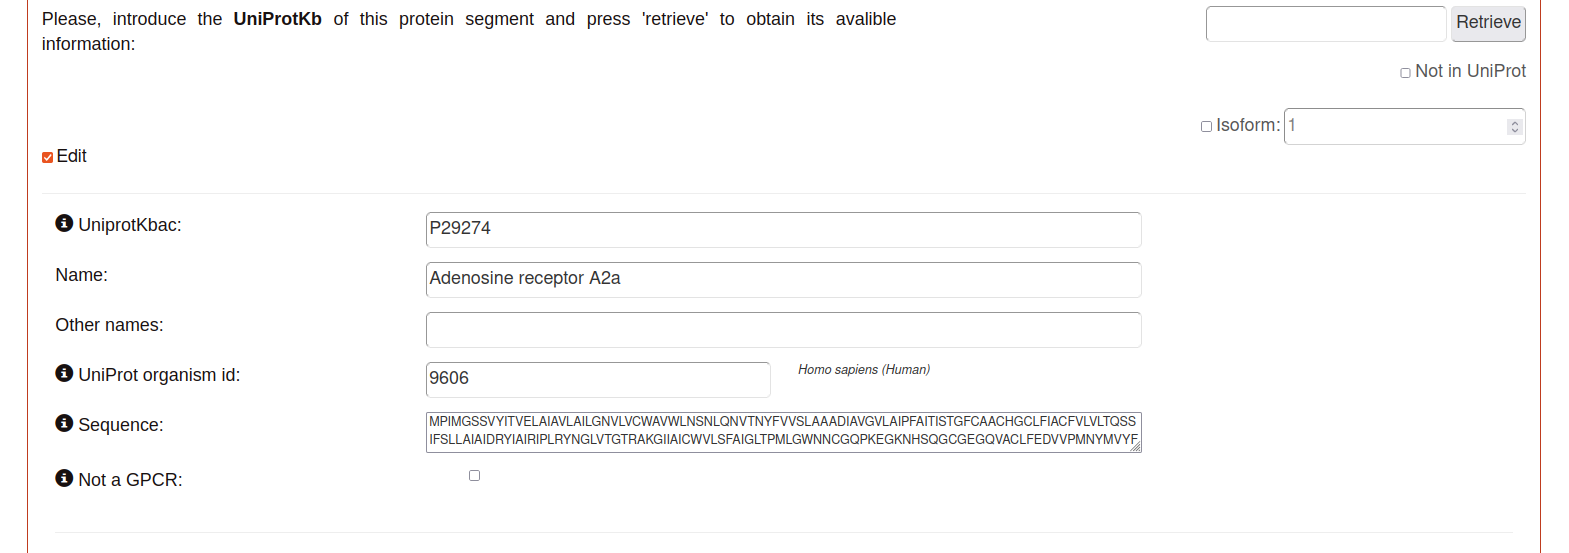
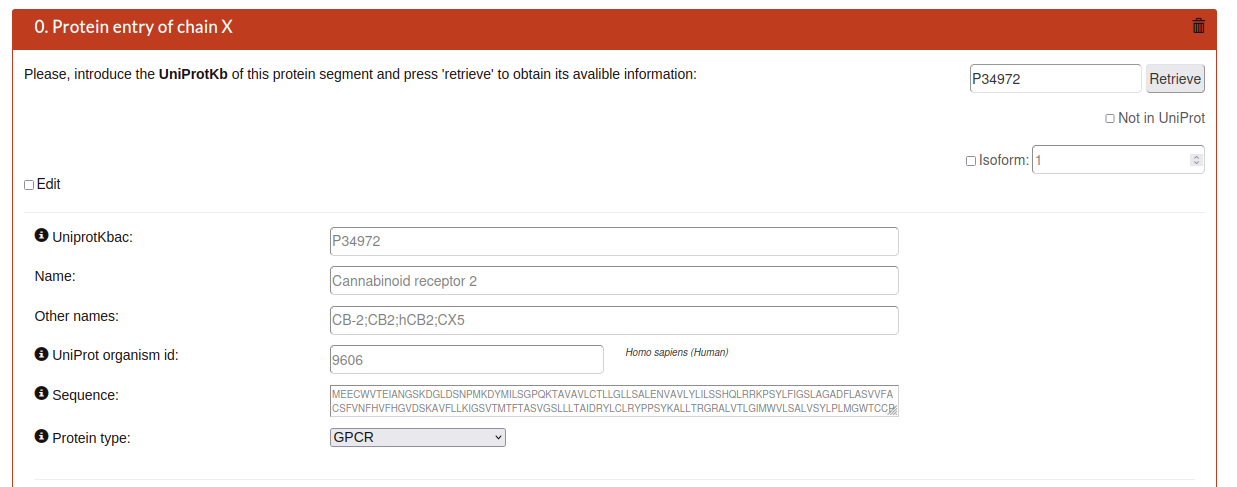
2.10.0

diff --git a/source/submissions.rst b/source/submissions.rst
@@ -58,9 +58,13 @@ This block contains the main information used to tag the submission.
 
    * **Name**: title of the simulation used to describe the content of the submission. 
    * **Type**: classify the simulation into a complex or an apoform. 
-   * **PDB ID**: protein data bank identifier of the structure which the simulations was based. This parameter is important for the next steps, guarantee that is correct.
+   * **PDB ID**: protein data bank identifier of the structure which the simulations was based. This parameter is important for the next steps, guarantee that is correct. In case that you do not have a PDB code then use:
+    - **AlphaFold model**: Use the word "ALPHA".
+    - **Homology model**: Use the word "HOMO".
+    - **Non PDB code**: Use the character "-".
    * **Description**: long text describing the simulation. 
    * **Source Type**: source of obtaining of the protein structure. 
+   * **State Type**: state of the initial protein structure used for the simulation.
 
 .. image:: _static/gpcrmd_step1a.png
   :width: 600
@@ -178,7 +182,12 @@ The parameters of each entry are:
   * **Other names**: Alias or other names. 
   * **UniProt organism id**: Uniprot taxon node of the specie this protein belongs to.
   * **Sequence**: sequence assigned to the UniprotKb.
-  * **Not a GPCR**: check in case that the entry protein is not a GPCR.
+  * **Protein type**: type of the protein chain detected: 
+      - **GPCR**  
+      - **G protein subunit**  
+      - **Beta arrestin**  
+      - **Peptide ligand**  
+      - **Other**  
   
 .. image:: _static/gpcrmd_step3manual.png
   :width: 600
@@ -195,7 +204,10 @@ Segments
 
 This part is determined by the chains that the tool detects on the structure file (.pdb). Here, is indicated some parameters related with the chain and the segments that are part of it: 
 
-* **PDB id**: protein data bank identifier detailed in the step 1. 
+* **PDB id**: protein data bank identifier detailed in the step 1. In case that you do not have a PDB code then use:
+    - **AlphaFold model**: Use the word "ALPHA".
+    - **Homology model**: Use the word "HOMO".
+    - **Non PDB code**: Use the character "-".
 * **Source type**: source of obtaining determined in the step 1. 
 * **ChainID**: name of the chain detected in the pdb file. 
 * **SegmentID**: segment name detected in the pdb file. 
@@ -254,6 +266,7 @@ Step 5: References
 
 As some of the previous steps, the user can add the information automatically, using the retrieve option with a doi, or write it manually.
 
+  * **GPCRmd publication code**: Internal code generated and related to a publication page. Use this code on each submission that you want to relate to the same publication page.  
   * **DOI**: Digital Object Identifier, is a string of numbers, letters and symbols used to uniquely identify an article or document, and to provide it with a permanent web address. 
   * **Authors**: name of the all authors involved in the publication separated by comma. 
   * **Title**: the title of the publication.

diff --git a/source/changelog.rst b/source/changelog.rst
@@ -4,6 +4,34 @@ Changelog
 .. toctree::
     :maxdepth: 1
 
+2.1.0 (undefined)
+*******************************
+
+**Added**     
+
+* Second round of GPCRmd data published ([Nature Communications](https://doi.org/10.1038/s41467-025-57034-y)).
+* Two new tools to analyze **allosteric sites** and **intracellular core conformation** via lipids.
+* New **State** parameter included in **Step 1** of the submission form.
+* Added **AlphaFold** as a new **Source type** and **PDB ID** option in `Steps 1/3 of the submission form <https://gpcrmd-docs.readthedocs.io/en/latest/submissions.html#simulation-submission-guide>`_.
+* Introduced a **Source type** filter in the search table for easier data discovery.
+* Added the **GPCRmd publication code**, enabling users to create a publication page to share and link multiple submissions under the same reference.
+
+**Changed**  
+
+* Search tables now display the **Model name** next to the receptor by default.
+* The **Class** column is hidden by default in search tables.
+* Submission form ([documentation](https://gpcrmd-docs.readthedocs.io/en/latest/submissions.html#simulation-submission-guide)) non-updated (step 1, 3 & 5).
+
+**Fixed**   
+
+* API downloader now correctly retrieves responses from the worker after a server restart.
+* Fixed missing image in the **Variants** tool caused by a broken link due to DisGeNET website style updates.
+* All **Type** and **Source type** options now correctly display on saved submissions.
+
+**Next**
+
+* Implementation of **batch submissions via API** (production release).
+
 2.0.9 (14-02-2025)
 *******************************
 
@@ -23,7 +51,7 @@ Changelog
 
 **Next**
 
-* Possibility to multi submit submissions using the API.  
+* Possibility to multi submit submissions using the API (testing release).  
 
 
 2.0.8 (16-11-2024)
